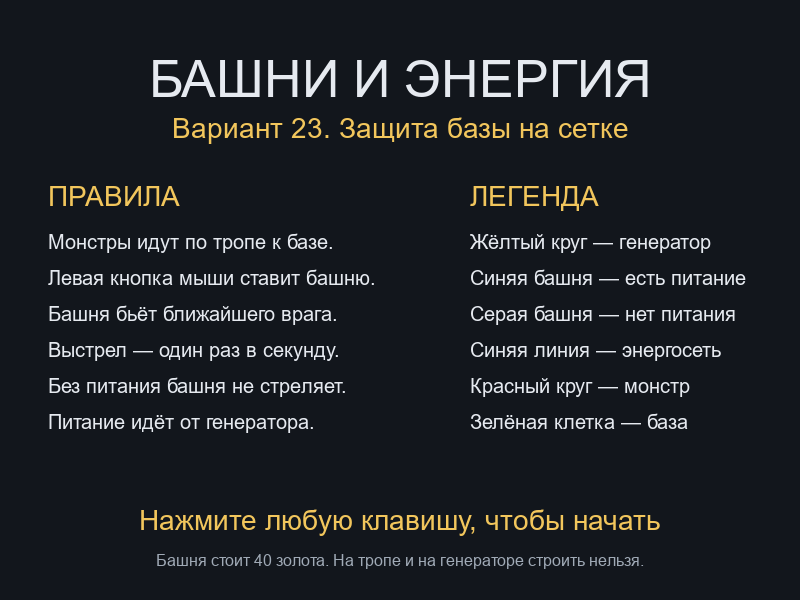
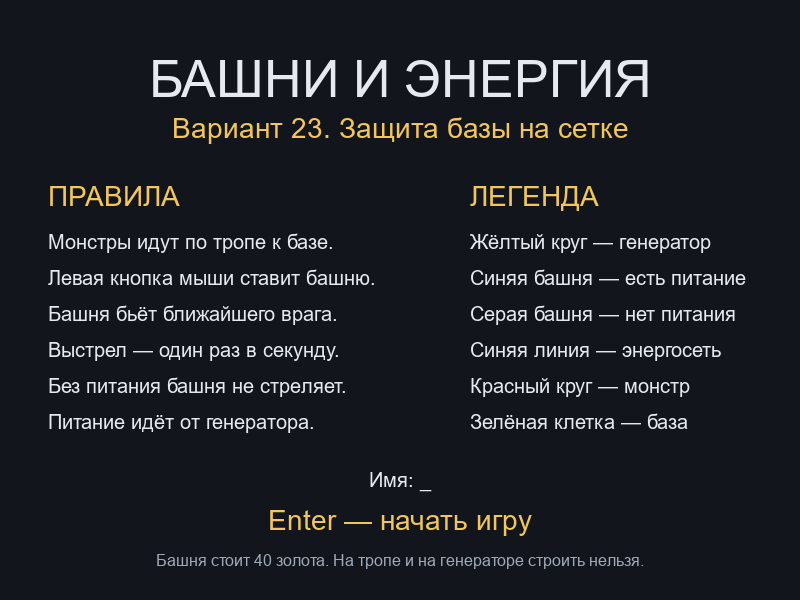
Lab 2: Grid Tower Defense (variant 23)

Changed region(s): [[0.1562, 0.84, 0.8438, 0.9], [0.4375, 0.78, 0.5312, 0.81]]

diff --git a/game.py b/game.py
@@ -21,7 +21,7 @@ from constants import (
     WINDOW_HEIGHT,
     WINDOW_WIDTH,
 )
-from data_io import load_balances, log_defeat
+from data_io import load_balances, log_defeat, save_score
 from enemy import Enemy
 from energy import power_network
 from level import (
@@ -41,6 +41,7 @@ class Game:
     def __init__(self):
         self.fonts = load_fonts()
         self.balance = load_balances()
+        self.player_name = ""
         self.reset()
 
     def reset(self):
@@ -78,24 +79,32 @@ class Game:
 
     def handle_event(self, event):
         if event.type == pygame.KEYDOWN:
-            self._on_key(event.key)
+            self._on_key(event)
         elif event.type == pygame.MOUSEBUTTONDOWN and event.button == 1:
             self._on_click(event.pos)
         elif event.type == pygame.MOUSEMOTION and self.state == STATE_PLAY:
             self.hover_cell = cell_from_pixel(*event.pos)
 
-    def _on_key(self, key):
-        # В меню любая клавиша начинает игру. R работает только на финальном экране,
-        # чтобы случайный перезапуск не стирал расставленные башни.
+    def _on_key(self, event):
+        # В меню набирается имя, Enter начинает партию. R работает только на финальном
+        # экране, чтобы случайный перезапуск не стирал расставленные башни.
         if self.state == STATE_MENU:
-            self.start_play()
-        elif self.state in (STATE_VICTORY, STATE_DEFEAT) and key == pygame.K_r:
+            self._on_menu_key(event)
+        elif self.state in (STATE_VICTORY, STATE_DEFEAT) and event.key == pygame.K_r:
             self.reset()
 
-    def _on_click(self, pos):
-        if self.state == STATE_MENU:
+    def _on_menu_key(self, event):
+        if event.key in (pygame.K_RETURN, pygame.K_KP_ENTER):
             self.start_play()
             return
+        if event.key == pygame.K_BACKSPACE:
+            self.player_name = self.player_name[:-1]
+            return
+        character = event.unicode
+        if character and character.isprintable() and len(self.player_name) < 20:
+            self.player_name += character
+
+    def _on_click(self, pos):
         if self.state != STATE_PLAY:
             return
         self.try_build(pos)
@@ -175,22 +184,28 @@ class Game:
             kept.append(enemy)
         self.enemies = kept
 
+    def _save_score(self, status):
+        name = self.player_name.strip() or "Игрок"
+        save_score(name, self.last_started_wave, status)
+
     def _check_outcome(self):
         if self.base_hp <= 0:
             self.base_hp = 0
             self.state = STATE_DEFEAT
             log_defeat(self.last_started_wave, self.towers)
+            self._save_score("Поражение")
             return
         waves_done = self.current_wave >= len(self.balance.waves)
         if waves_done and not self.enemies:
             self.state = STATE_VICTORY
+            self._save_score("Победа")
 
     def draw(self, surface):
         # match сравнивает состояние с готовыми строками. Так экран
         # меню, боя и финала не смешиваются в одной цепочке if.
         match self.state:
             case "menu":
-                draw_menu(surface, self.fonts, self.balance.tower_cost)
+                draw_menu(surface, self.fonts, self.balance.tower_cost, self.player_name)
             case "play" | "victory" | "defeat":
                 self._draw_battle(surface)
                 if self.state == STATE_VICTORY:

diff --git a/data_io.py b/data_io.py
@@ -1,11 +1,13 @@
-"""Чтение баланса из JSON и запись поражения в лог.
+"""Чтение баланса из JSON, запись поражения в лог и строки в scores.csv.
 
 Если defense_balances.json нет или он сломан, игра не закрывается:
 берутся числа из constants.py, а причина печатается в консоль.
 """
 
+import csv
 import json
 import logging
+from datetime import datetime
 from pathlib import Path
 
 from constants import ATTACK_RADIUS, TOWER_COST, TOWER_DAMAGE, WAVES
@@ -13,6 +15,7 @@ from constants import ATTACK_RADIUS, TOWER_COST, TOWER_DAMAGE, WAVES
 FOLDER = Path(__file__).resolve().parent
 BALANCES_PATH = FOLDER / "defense_balances.json"
 DEFEAT_LOG_PATH = FOLDER / "log_defense.txt"
+SCORES_PATH = FOLDER / "scores.csv"
 
 
 class Balance:
@@ -99,6 +102,20 @@ def _defeat_logger():
     handler.setFormatter(logging.Formatter("%(asctime)s | %(message)s", datefmt="%H:%M:%S"))
     logger.addHandler(handler)
     return logger
+
+
+def save_score(name, wave, status, path=SCORES_PATH):
+    """Дописывает результат партии в scores.csv.
+
+    Если файла ещё нет, первая строка — заголовок.
+    Время берётся в момент записи, формат HH:MM:SS.
+    """
+    new_file = not Path(path).exists()
+    with open(path, "a", encoding="utf-8", newline="") as file:
+        writer = csv.writer(file)
+        if new_file:
+            writer.writerow(["Имя", "Волна", "Статус", "Время"])
+        writer.writerow([name, wave, status, datetime.now().strftime("%H:%M:%S")])
 
 
 def log_defeat(wave_number, towers):

diff --git a/ui.py b/ui.py
@@ -35,7 +35,7 @@ def _blit_lines(surface, font, lines, x, y, color, gap):
     return y
 
 
-def draw_menu(surface, fonts, tower_cost):
+def draw_menu(surface, fonts, tower_cost, player_name):
     surface.fill(COLORS["bg"])
     title = fonts["big"].render("БАШНИ И ЭНЕРГИЯ", True, COLORS["text"])
     subtitle = fonts["medium"].render("Вариант 23. Защита базы на сетке", True, COLORS["gold"])
@@ -65,7 +65,10 @@ def draw_menu(surface, fonts, tower_cost):
     _blit_lines(surface, fonts["body"], left, 48, 230, COLORS["text"], 36)
     _blit_lines(surface, fonts["body"], right, 470, 230, COLORS["text"], 36)
 
-    hint = fonts["medium"].render("Нажмите любую клавишу, чтобы начать", True, COLORS["gold"])
+    name_text = f"Имя: {player_name}_" if player_name else "Имя: _"
+    name_image = fonts["body"].render(name_text, True, COLORS["text"])
+    surface.blit(name_image, name_image.get_rect(center=(WINDOW_WIDTH // 2, 480)))
+    hint = fonts["medium"].render("Enter — начать игру", True, COLORS["gold"])
     surface.blit(hint, hint.get_rect(center=(WINDOW_WIDTH // 2, 520)))
     cost = fonts["small"].render(
         f"Башня стоит {tower_cost:g} золота. На тропе и на генераторе строить нельзя.",

diff --git a/README.md b/README.md
@@ -20,7 +20,8 @@ python main.py
 
 | Действие | Клавиша / кнопка |
 | --- | --- |
-| Начать игру из меню | любая клавиша или клик |
+| Ввести имя на стартовом экране | символы, Backspace стирает |
+| Начать игру из меню | Enter |
 | Построить башню | левая кнопка мыши по свободной клетке |
 | Вернуться в меню после финала | R |
 | Выход | закрыть окно |
@@ -98,13 +99,21 @@ grid_tower_defense/
 
 Если файл отсутствует, JSON не разбирается или в объекте нет обязательных числовых полей, загрузчик перехватывает `FileNotFoundError`, `json.JSONDecodeError`, `KeyError`, `TypeError` и `ValueError`. В этом случае используются `TOWER_COST`, `TOWER_DAMAGE`, `ATTACK_RADIUS` и `WAVES` из `constants.py`. Текст ошибки выводится в стандартный поток вывода.
 
+## Таблица результатов
+
+При переходе в `STATE_VICTORY` или `STATE_DEFEAT` модуль `game.py` вызывает `save_score` из `data_io.py`. Функция дописывает строку в `scores.csv`. Если файла нет, он создаётся с заголовком `Имя,Волна,Статус,Время`.
+
+`Имя` берётся из `self.player_name`. Пустое имя записывается как `Игрок`. `Волна` — номер волны, на которой партия закончилась. `Статус` — `Победа` или `Поражение`. `Время` — момент записи в формате `HH:MM:SS`.
+
+Файл открывается через `csv.writer` с `encoding="utf-8"` и `newline=""`. Запись в `log_defense.txt` при поражении выполняется отдельно и не изменяется.
+
 ## Скриншоты
 
 ### Меню
 
 ![Меню](screenshots/menu.png)
 
-Стартовый экран: правила и легенда.
+Стартовый экран: правила, легенда и поле имени.
 
 ### Игра
 
